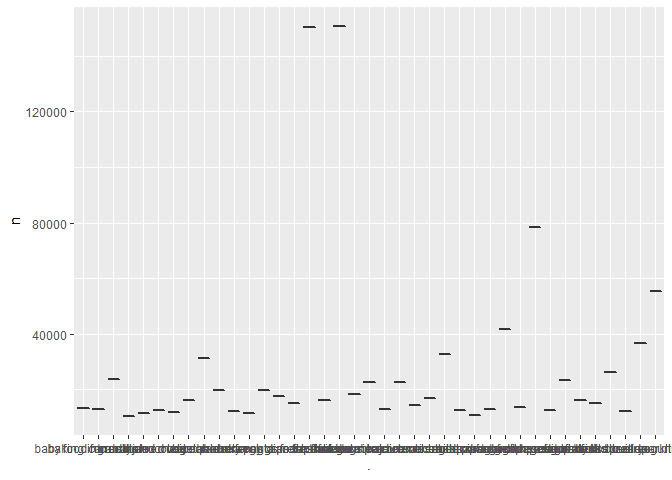
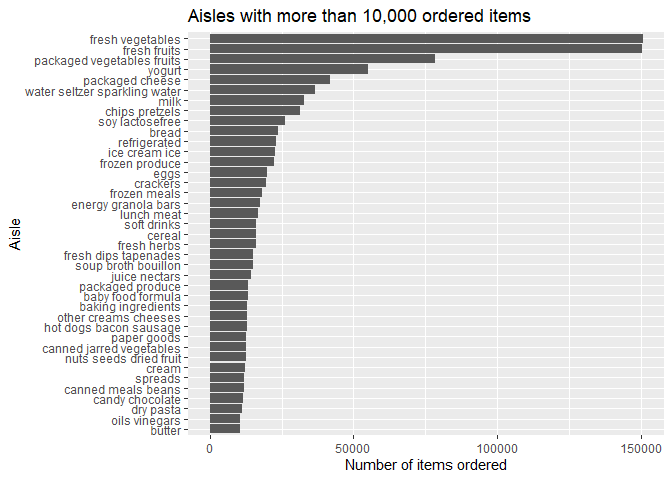
Finished 1b.

Changed region(s): [[0.0312, 0.0, 1.0, 1.0], [0.0, 0.4375, 0.0938, 0.5312], [0.4062, 0.8125, 0.4375, 0.8438]]

diff --git a/p8105_hw3_jra2186.md b/p8105_hw3_jra2186.md
@@ -67,10 +67,12 @@ instacart %>%
 instacart %>%
   pull("aisle") %>%
   janitor::tabyl() %>%
-  arrange(desc(n)) %>%
   filter(n > 10000) %>%
-  ggplot(aes(x = ., y = n)) +
-  geom_boxplot()
+  arrange(desc(n)) %>%
+  ggplot(aes(x = reorder(.,n) , y = n)) +
+  geom_col() +
+  coord_flip() +
+  labs(y = "Number of items ordered", x = "Aisle", title = "Aisles with more than 10,000 ordered items")
 ```
 
 ![](p8105_hw3_jra2186_files/figure-gfm/1b-1.png)<!-- -->
